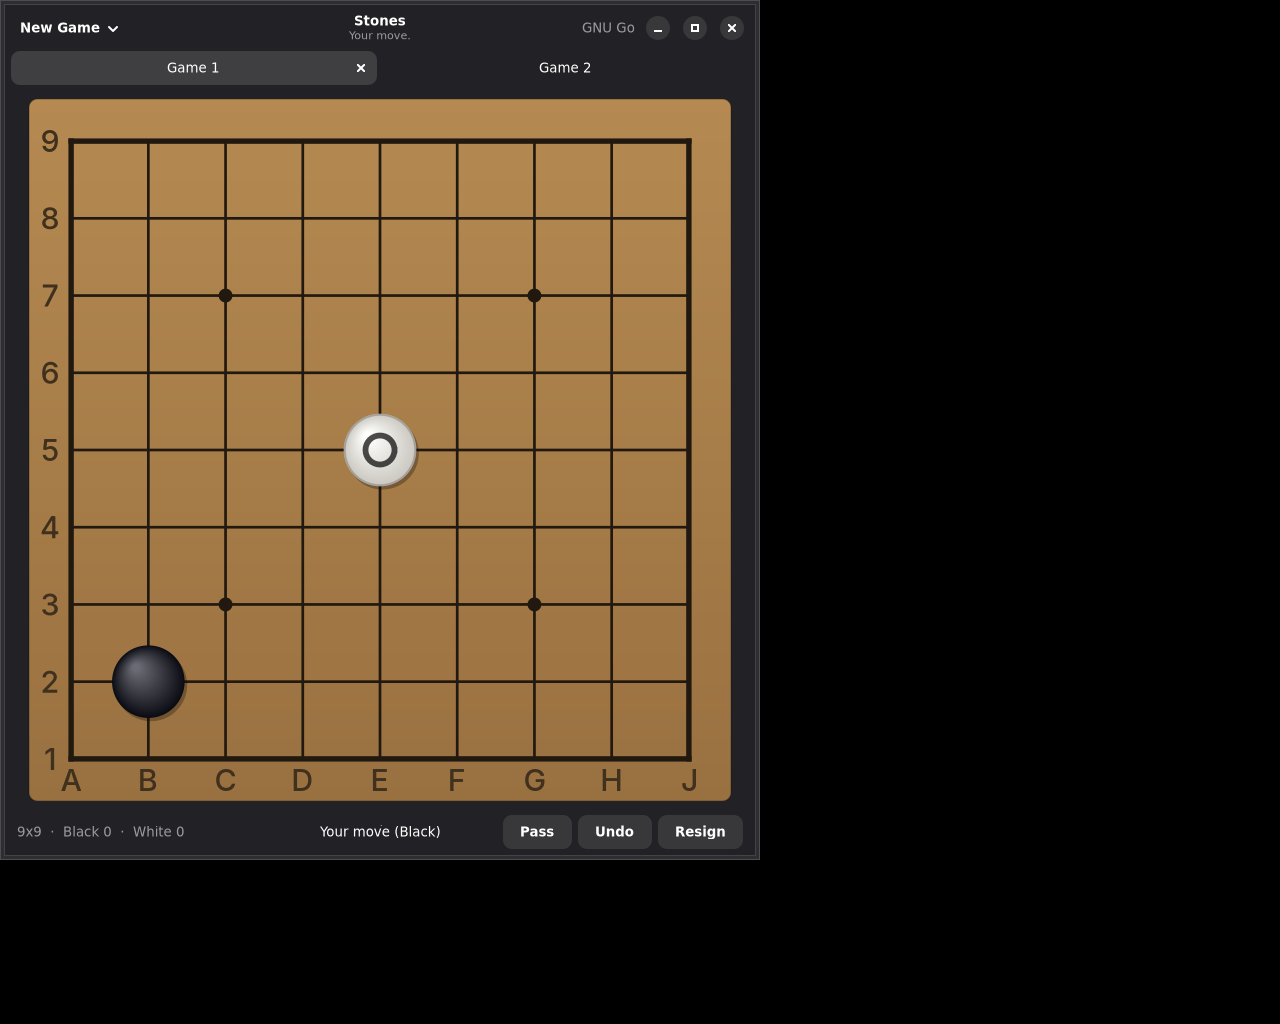
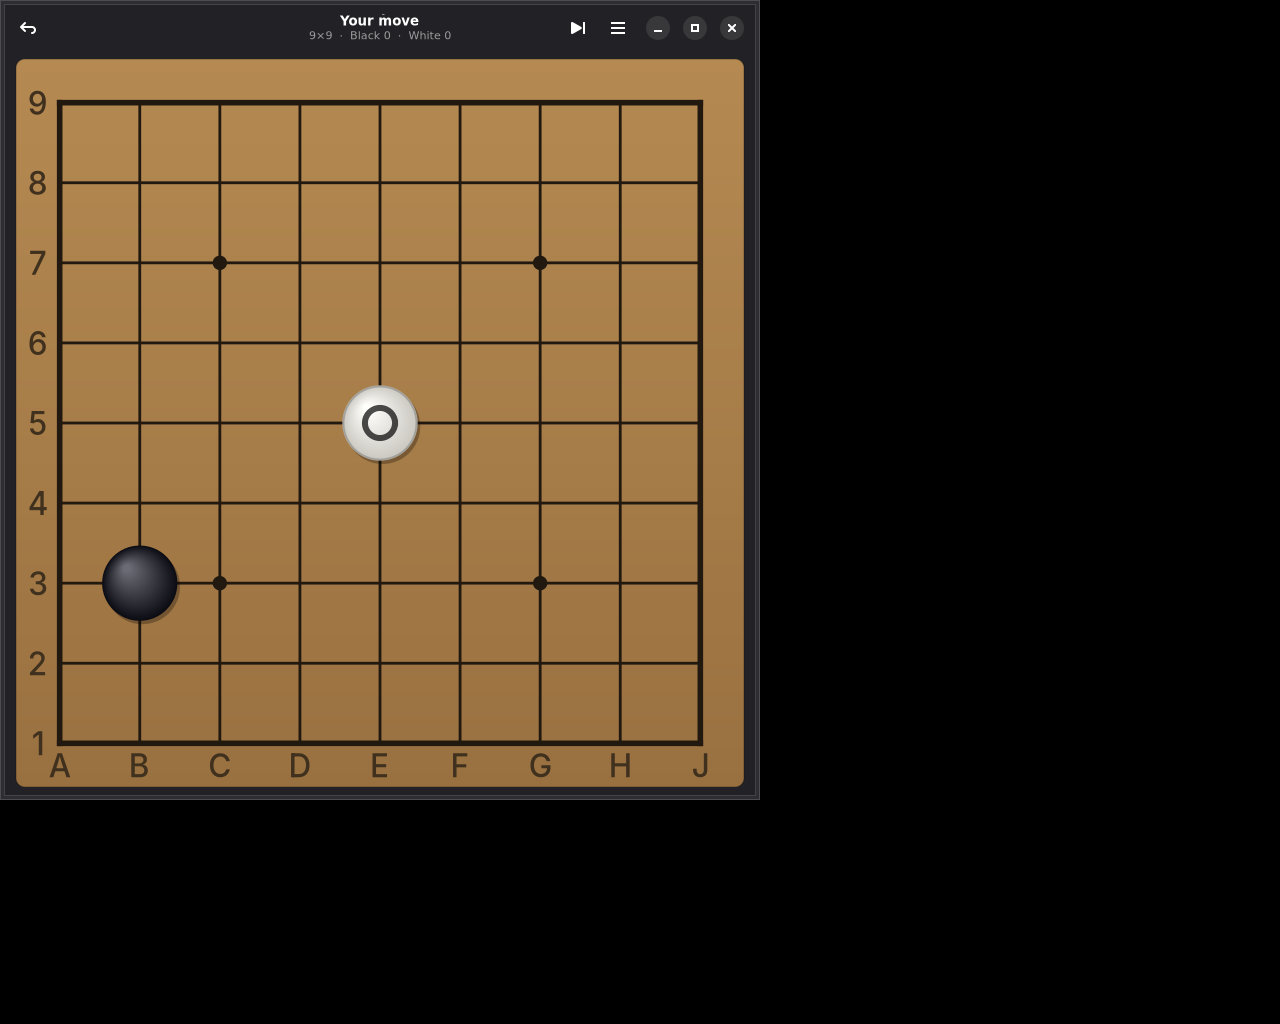
Put the whole window in the header bar, as GNOME Mahjongg does
The bottom toolbar is gone. Undo is an icon button at the start of the
header bar and Pass is one at the end, because those are the two a
player reaches for while playing; Resign and New Game are in the
primary menu in the corner. The title says whose turn it is and the
subtitle carries the numbers, under the numeric style class, so a
capture count does not shuffle the line about as it changes. The board
now has the whole window below the bar.

That meant deciding what the title and the subtitle are, which meant
the free-text sessionMessage had to go. Almost all of it was already
worked out from the game and its opponent; what was left is a Note with
two cases, the score at the end and the reason the rules refused the
last stone.

Changed region(s): [[0.0, 0.0, 0.5938, 0.8438]]

diff --git a/README.md b/README.md
@@ -16,9 +16,12 @@ New Game opens another tab, and each tab has a GNU Go of its own,
 because one GNU Go holds one board. Closing a tab stops the GNU Go
 that was playing in it, and closing the last tab closes the window.
 
-Under the board are a Pass button, an Undo button that takes back your
-move and the answer to it, and a Resign button. They act on the game
-that is showing.
+The window is a header bar over a board, and nothing else, which is the
+shape the GNOME games have. Undo is at the start of the bar and Pass is
+at the end, because those are the two a player reaches for while
+playing. Resign and New Game are in the menu in the corner. The title
+says whose turn it is, and the line under it carries the numbers: the
+board, and how many stones each player has taken.
 
 ## Building
 
@@ -90,6 +93,11 @@ them: starting, idle, waiting for an answer, or gone. One value rather
 than a handful of flags, so that a game cannot be starting and broken at
 the same time, and so that a move can only be played where there is
 something to play it against.
+
+Almost everything the window says is worked out from the game and from
+its opponent, rather than stored as a line of text. A game keeps only
+the two things that are written nowhere else: the score at the end, and
+the reason the rules would not take the last stone.
 
 ## Playing on a server
 
